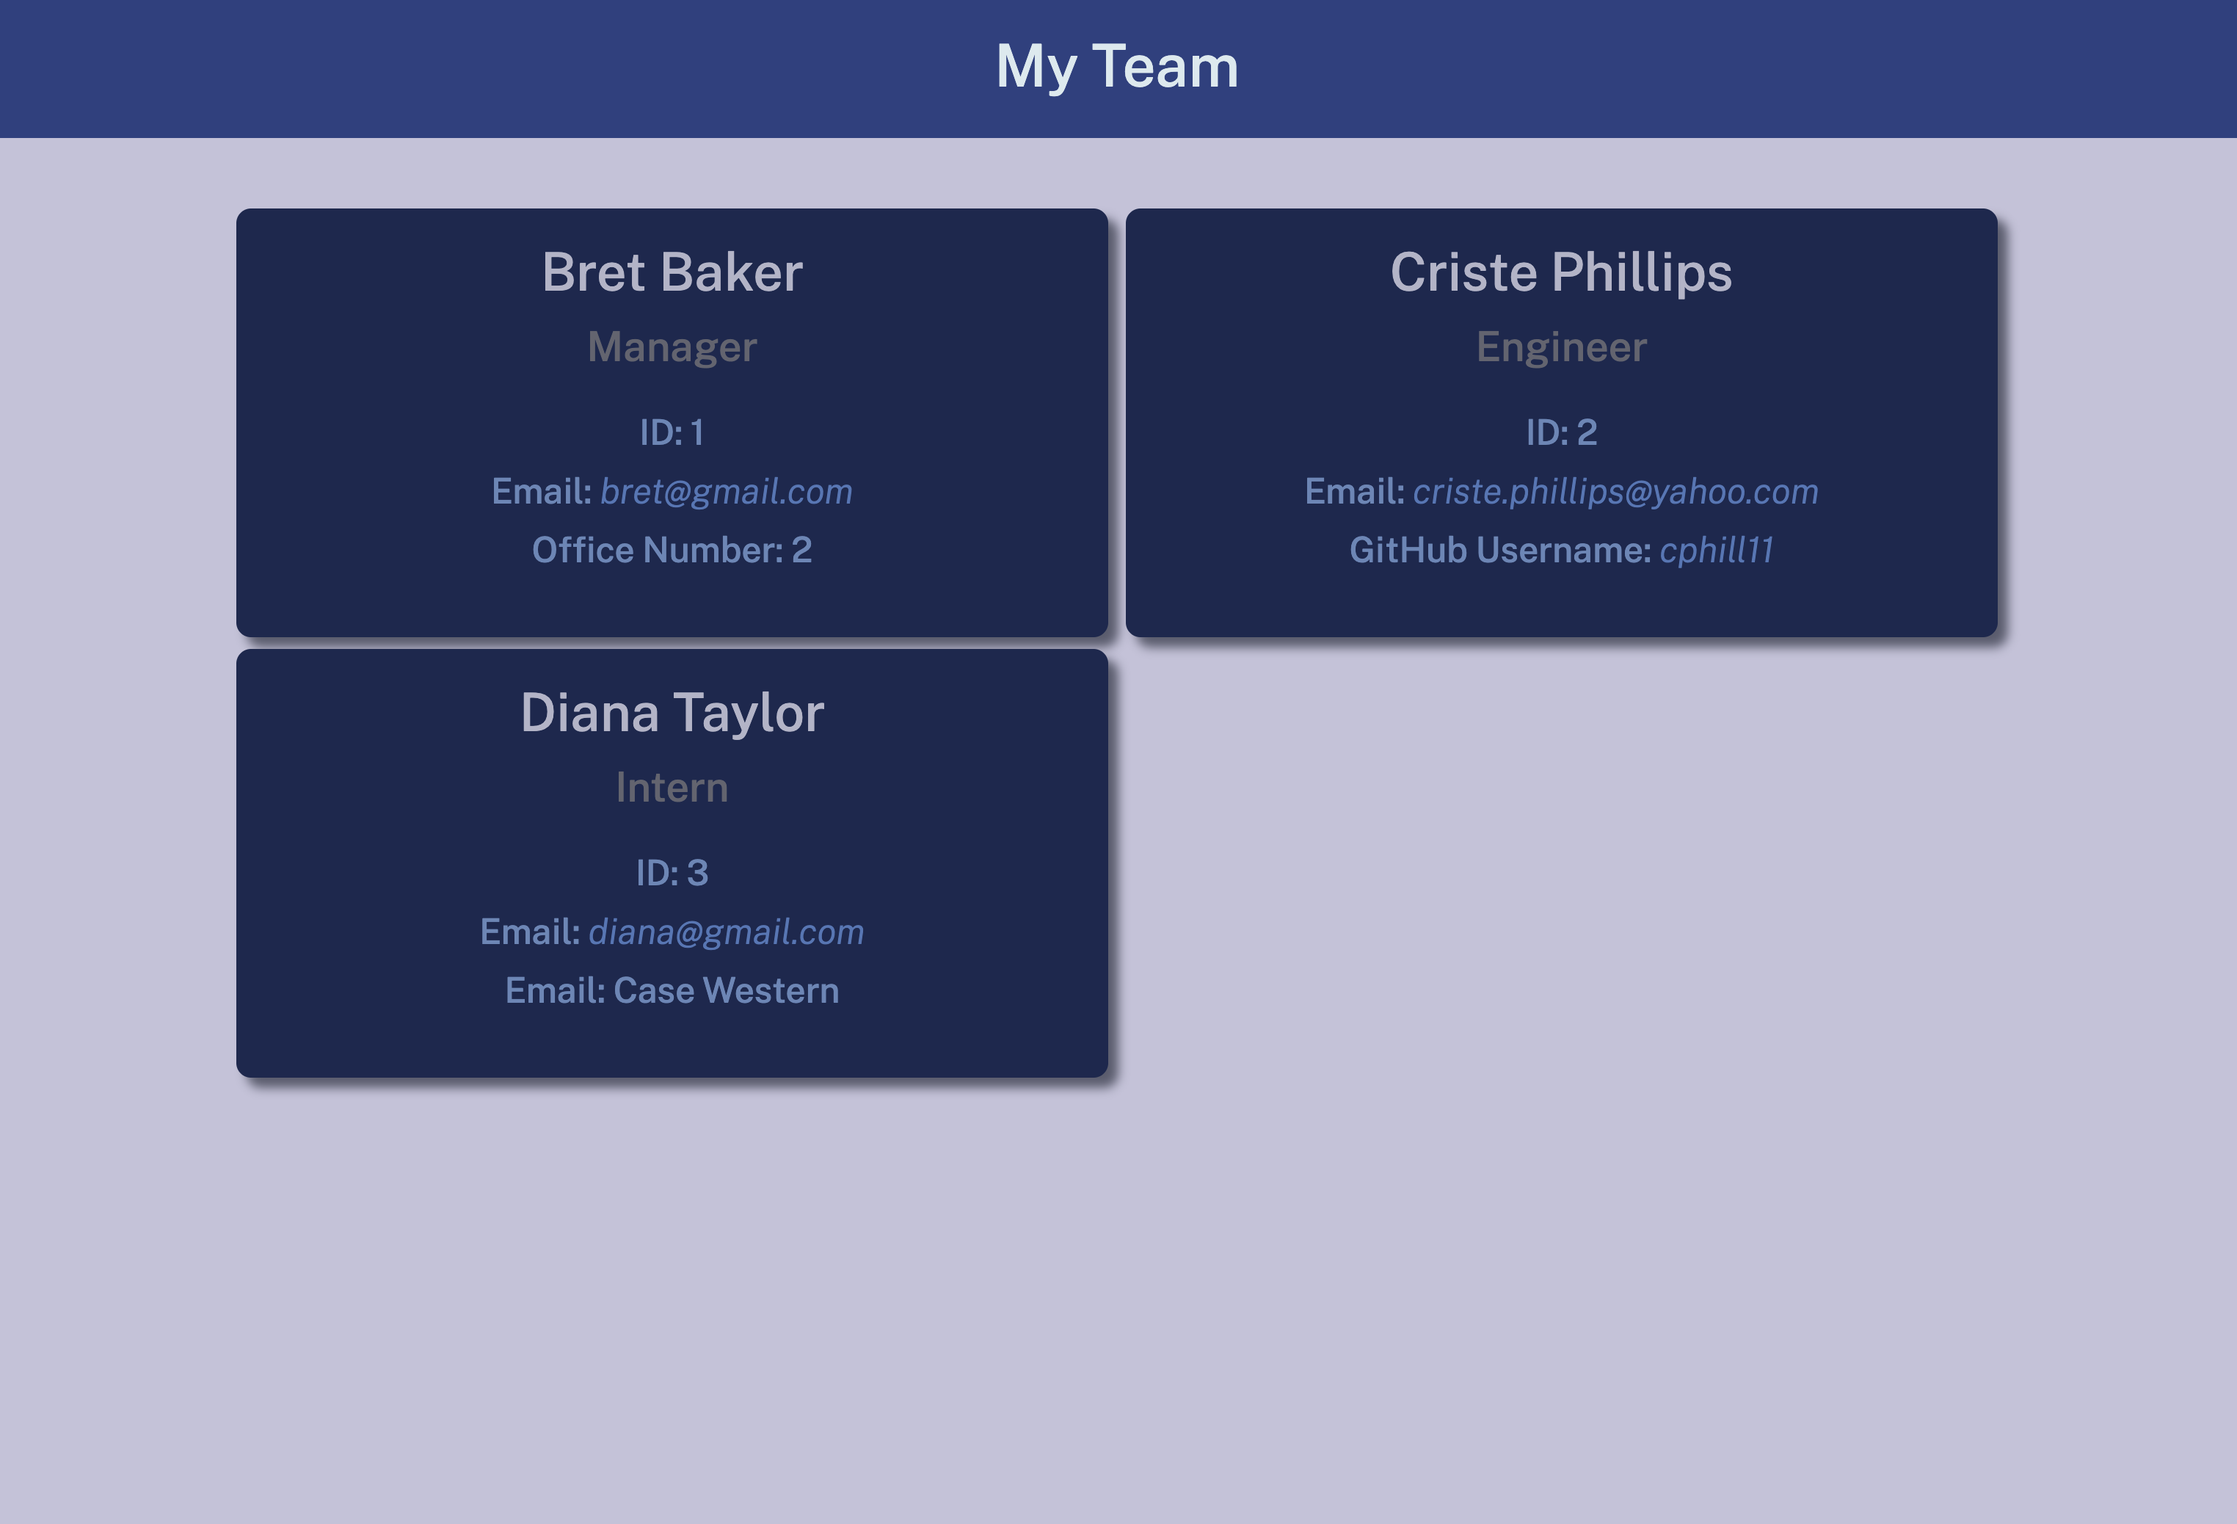
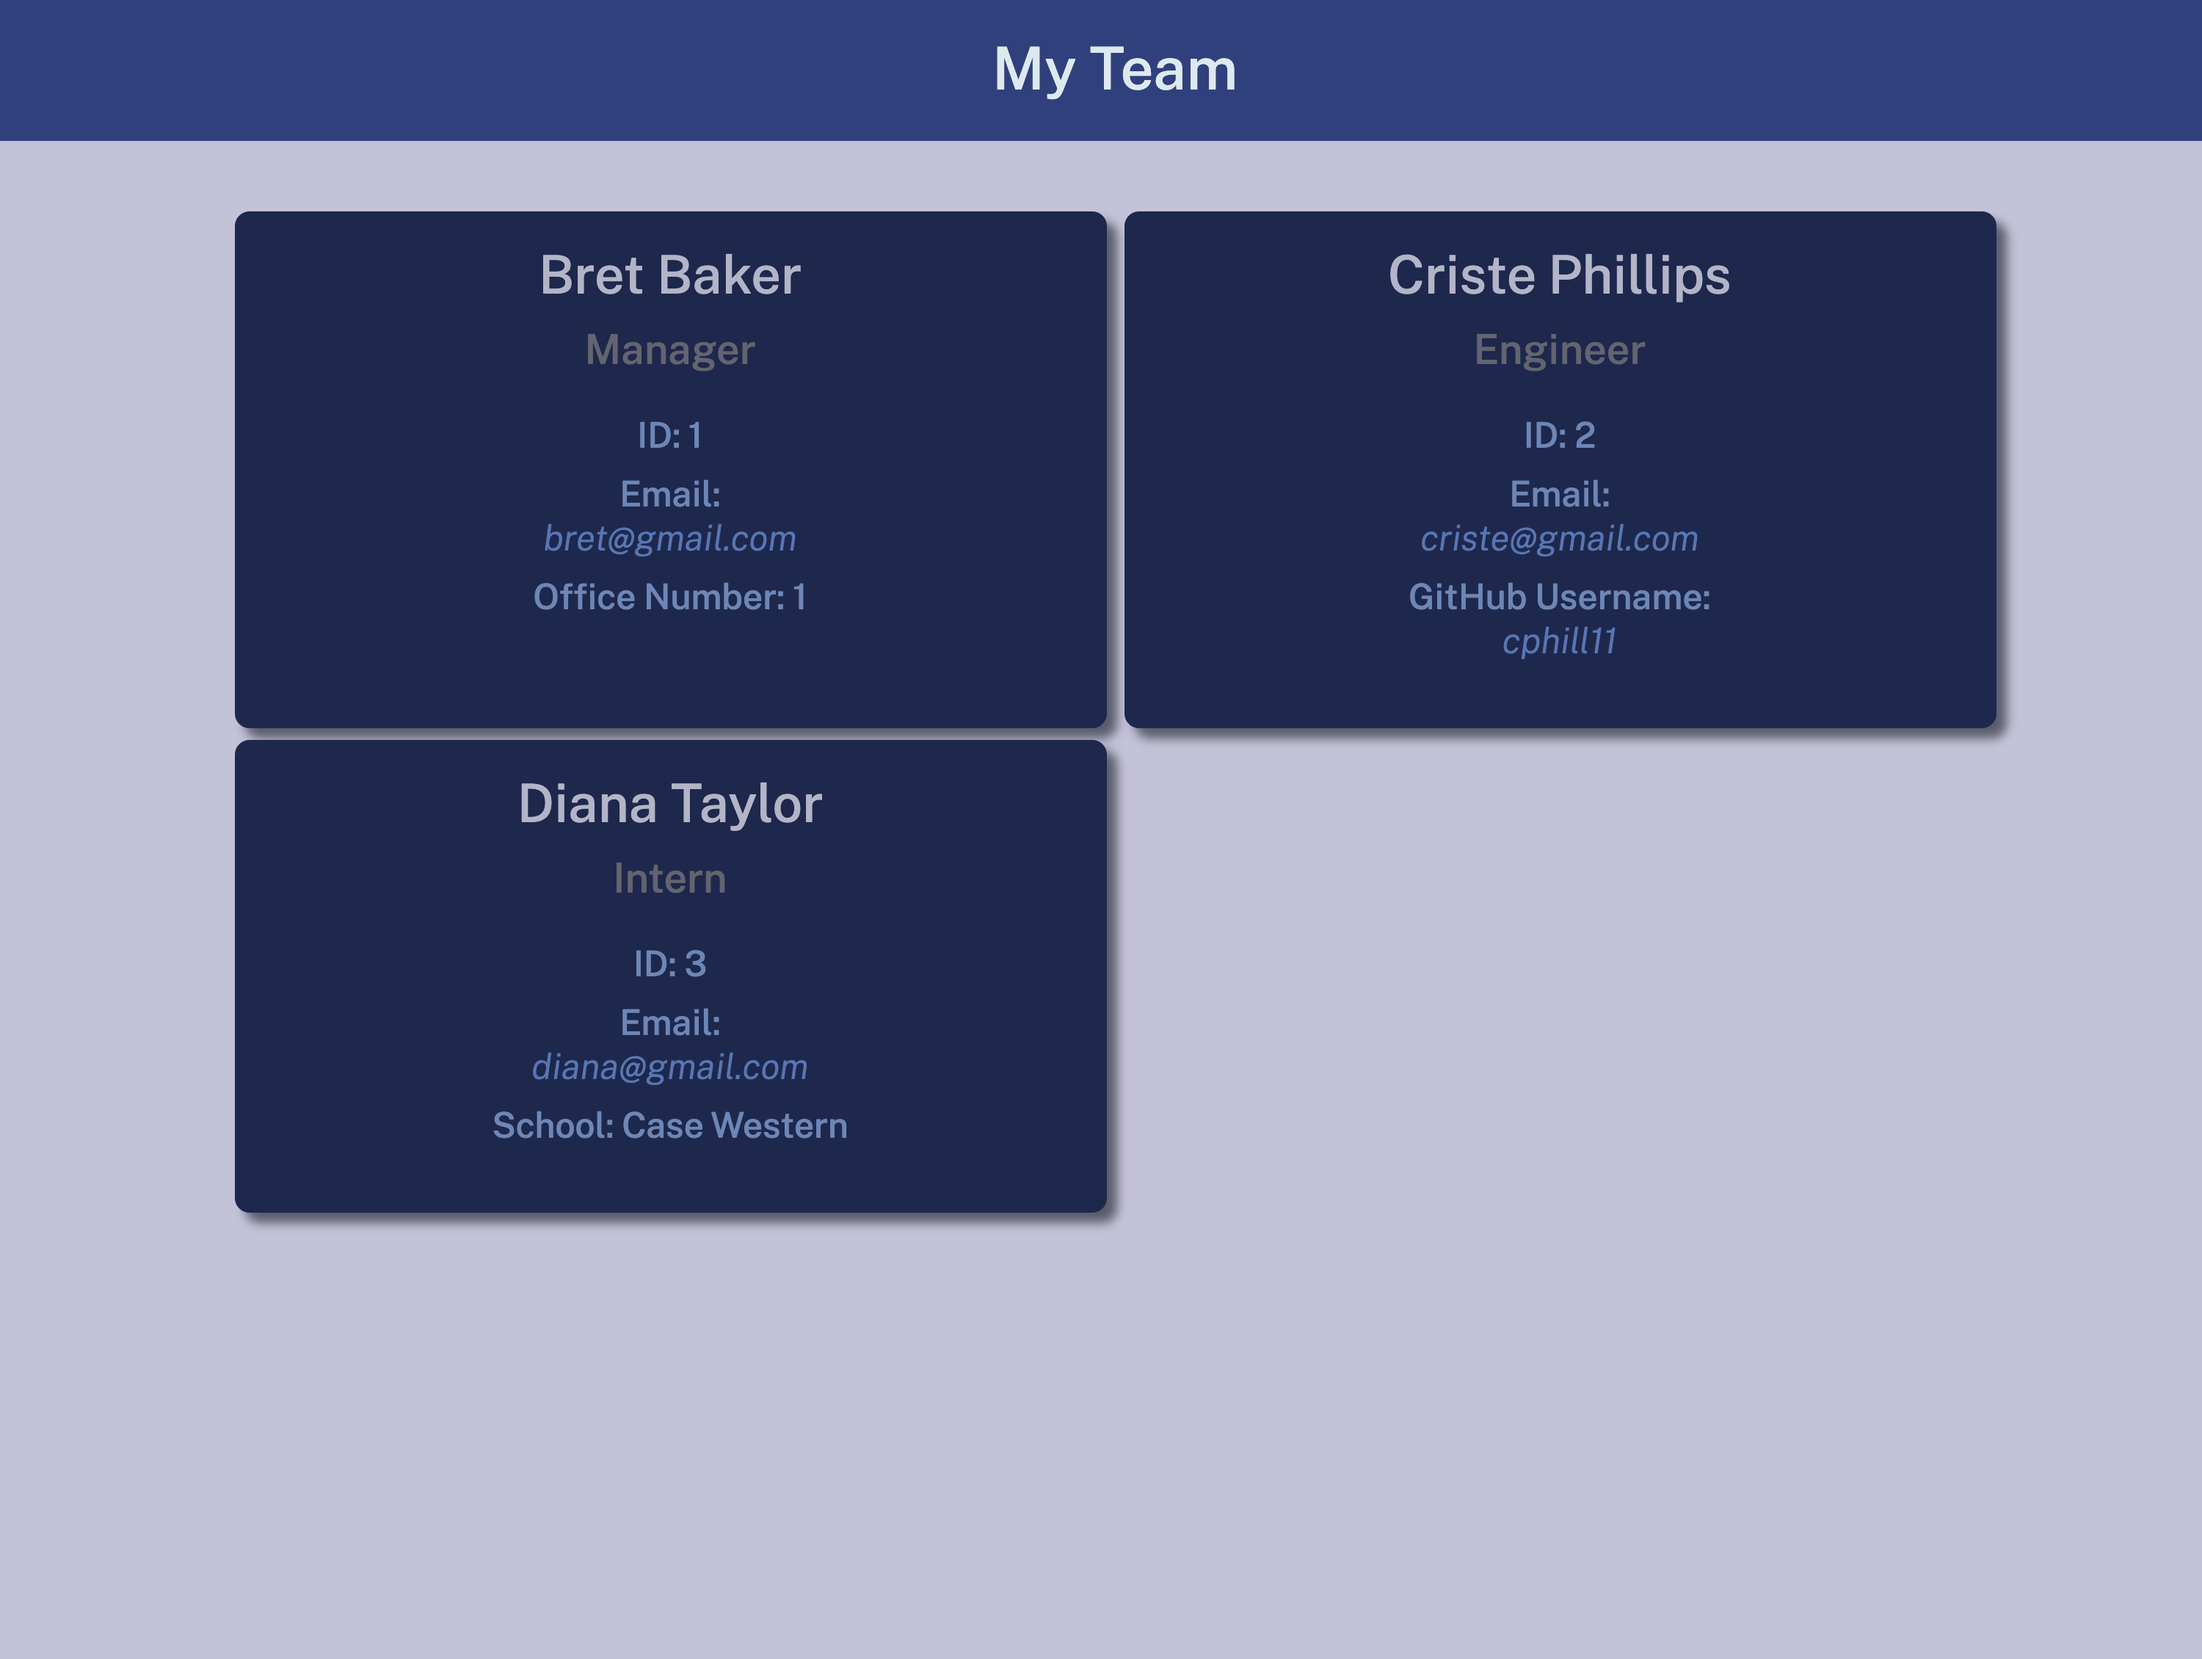
media flex sorted

Changed region(s): [[0.093, 0.1233, 0.93, 0.7399], [0.0, 0.0308, 1.0, 0.0925]]

diff --git a/src/page-template.js b/src/page-template.js
@@ -13,11 +13,13 @@ const generateCards = cardsArr => {
       return `
       <div class="col-12 col-md-6 mb-2 bg-dark text-light p-3 flex-column" id="employee-card">
         <h3 class="employee-item-title text-light" id="employee-name"s>${name}</h3>
-        <div class="col-12 col-md-6 mb-2 bg-dark text-light p-3 flex-column">
-        <h4 class="employe-item-title text-light">${id}</h4>
-        <h4 class="employe-item-title text-light">${email}</h4>
-        <h4 class="employe-item-title text-light">${officeNumber}</h4>
-      </div>
+        <div>
+          <div class="col-12 col-md-6 mb-2 bg-dark text-light p-3 flex-column">
+            <h4 class="employe-item-title text-light">${id}</h4>
+            <h4 class="employe-item-title text-light flex-column">${email}</h4>
+            <h4 class="employe-item-title text-light flex-column">${officeNumber}</h4>
+          </div>
+        </div>
       </div>
     `;
   })
@@ -33,11 +35,13 @@ const generateCards = cardsArr => {
           <div class="col-12 col-md-6 mb-2 bg-dark text-light p-3 flex-column" id="employee-card">
             <h2 class="employee-item-title text-light" id="employee-name">${name}</h3>
             <h3 class="employee-item-title text-light" id="employee-title">Manager</h3>
-            <div class="col-12 col-md-6 mb-2 text-light p-3 flex-column">
-            <h4 class="employee-item-title text-primary">ID: ${id}</h4>
-            <h4 class="employee-item-title text-primary">Email:
-            <a href="mailto:${email}">${email}</a></h4>
-            <h4 class="employee-item-title text-primary">Office Number: ${officeNumber}</h4>
+            <div>
+              <div class="col-12 col-md-6 mb-2 text-light p-3 flex-column">
+                <h4 class="employee-item-title text-primary">ID: ${id}</h4>
+                <h4 class="employee-item-title text-primary flex-column">Email:
+                  <a href="mailto:${email}">${email}</a></h4>
+                <h4 class="employee-item-title text-primary flex-column">Office Number: ${officeNumber}</h4>
+              </div>
             </div>
           </div>
         `;
@@ -51,12 +55,14 @@ const generateCards = cardsArr => {
           <div class="col-12 col-md-6 mb-2 bg-dark text-light p-3 flex-column" id="employee-card">
             <h2 class="employee-item-title text-light" id="employee-name">${name}</h3>
             <h3 class="employee-item-title text-light" id="employee-title">Engineer</h3>
-            <div class="col-12 col-md-6 mb-2 p-3 flex-column">
-            <h4 class="employee-item-title text-primary">ID: ${id}</h4>
-            <h4 class="employee-item-title text-primary">Email:
-            <a href="mailto:${email}">${email}</a></h4>
-            <h4 class="employee-item-title text-primary">GitHub Username:
-              <a href="https://github.com/${github}" target="_blank">${github}</a></h4>
+            <div>
+              <div class="col-12 col-md-6 mb-2 p-3 flex-column">
+                <h4 class="employee-item-title text-primary">ID: ${id}</h4>
+                <h4 class="employee-item-title text-primary flex-column">Email:
+                  <a href="mailto:${email}">${email}</a></h4>
+                <h4 class="employee-item-title text-primary flex-column">GitHub Username:
+                  <a href="https://github.com/${github}" target="_blank">${github}</a></h4>
+              </div>
             </div>
           </div>
         `;
@@ -70,11 +76,13 @@ const generateCards = cardsArr => {
            <div class="col-12 col-md-6 mb-2 bg-dark text-light p-3 flex-column" id="employee-card">
              <h2 class="employee-item-title text-light" id="employee-name">${name}</h3>
              <h3 class="employee-item-title text-light" id="employee-title">Intern</h3>
-             <div class="col-12 col-md-6 mb-2 p-3 flex-column">
-             <h4 class="employee-item-title text-primary">ID: ${id}</h4>
-             <h4 class="employee-item-title text-primary">Email:
-             <a href="mailto:${email}">${email}</a></h4>
-             <h4 class="employee-item-title text-primary">Email: ${school}</h4>
+             <div>
+              <div class="col-12 col-md-6 mb-2 p-3 flex-column">
+                <h4 class="employee-item-title text-primary">ID: ${id}</h4>
+                <h4 class="employee-item-title text-primary flex-column">Email:
+                  <a href="mailto:${email}">${email}</a></h4>
+                <h4 class="employee-item-title text-primary flex-column">School: ${school}</h4>
+              </div>
             </div>
            </div>
          `;

diff --git a/src/newHTML.html b/src/newHTML.html
@@ -29,11 +29,13 @@
           <div class="col-12 col-md-6 mb-2 bg-dark text-light p-3 flex-column" id="employee-card">
             <h2 class="employee-item-title text-light" id="employee-name">Bret Baker</h3>
             <h3 class="employee-item-title text-light" id="employee-title">Manager</h3>
-            <div class="col-12 col-md-6 mb-2 text-light p-3 flex-column">
-            <h4 class="employee-item-title text-primary">ID: 1</h4>
-            <h4 class="employee-item-title text-primary">Email:
-            <a href="mailto:bret@gmail.com">bret@gmail.com</a></h4>
-            <h4 class="employee-item-title text-primary">Office Number: 2</h4>
+            <div>
+              <div class="col-12 col-md-6 mb-2 text-light p-3 flex-column">
+                <h4 class="employee-item-title text-primary">ID: 1</h4>
+                <h4 class="employee-item-title text-primary flex-column">Email:
+                  <a href="mailto:bret@gmail.com">bret@gmail.com</a></h4>
+                <h4 class="employee-item-title text-primary flex-column">Office Number: 1</h4>
+              </div>
             </div>
           </div>
         
@@ -42,12 +44,14 @@
           <div class="col-12 col-md-6 mb-2 bg-dark text-light p-3 flex-column" id="employee-card">
             <h2 class="employee-item-title text-light" id="employee-name">Criste Phillips</h3>
             <h3 class="employee-item-title text-light" id="employee-title">Engineer</h3>
-            <div class="col-12 col-md-6 mb-2 p-3 flex-column">
-            <h4 class="employee-item-title text-primary">ID: 2</h4>
-            <h4 class="employee-item-title text-primary">Email:
-            <a href="mailto:criste.phillips@yahoo.com">criste.phillips@yahoo.com</a></h4>
-            <h4 class="employee-item-title text-primary">GitHub Username:
-              <a href="https://github.com/cphill11" target="_blank">cphill11</a></h4>
+            <div>
+              <div class="col-12 col-md-6 mb-2 p-3 flex-column">
+                <h4 class="employee-item-title text-primary">ID: 2</h4>
+                <h4 class="employee-item-title text-primary flex-column">Email:
+                  <a href="mailto:crist@gmail.com">crist@gmail.com</a></h4>
+                <h4 class="employee-item-title text-primary flex-column">GitHub Username:
+                  <a href="https://github.com/cphill11" target="_blank">cphill11</a></h4>
+              </div>
             </div>
           </div>
         
@@ -56,11 +60,13 @@
            <div class="col-12 col-md-6 mb-2 bg-dark text-light p-3 flex-column" id="employee-card">
              <h2 class="employee-item-title text-light" id="employee-name">Diana Taylor</h3>
              <h3 class="employee-item-title text-light" id="employee-title">Intern</h3>
-             <div class="col-12 col-md-6 mb-2 p-3 flex-column">
-             <h4 class="employee-item-title text-primary">ID: 3</h4>
-             <h4 class="employee-item-title text-primary">Email:
-             <a href="mailto:diana@gmail.com">diana@gmail.com</a></h4>
-             <h4 class="employee-item-title text-primary">Email: Case Western</h4>
+             <div>
+              <div class="col-12 col-md-6 mb-2 p-3 flex-column">
+                <h4 class="employee-item-title text-primary">ID: 3</h4>
+                <h4 class="employee-item-title text-primary flex-column">Email:
+                  <a href="mailto:diana@gmail.com">diana@gmail.com</a></h4>
+                <h4 class="employee-item-title text-primary flex-column">School: Case Western</h4>
+              </div>
             </div>
            </div>
          

diff --git a/src/style.css b/src/style.css
@@ -100,6 +100,8 @@
 #employee-card {
   box-shadow:#585b6e 7px 7px 7px;
   border-radius: 10px;
+  display: flex;
+  flex-wrap: wrap;
 }
 
 #employee-name {
